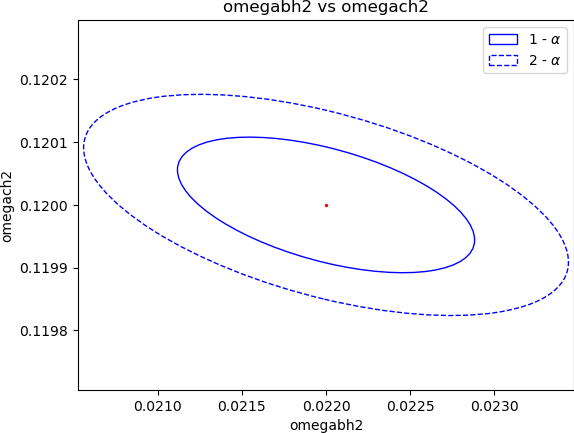
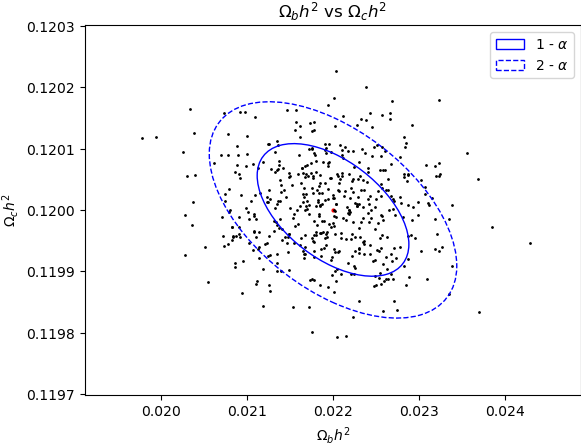
fixed the issue in both scaling and gaussian realization.

diff --git a/Fisher_Matrix.py b/Fisher_Matrix.py
@@ -37,6 +37,19 @@ def print_matrix(matrix):
     print("-" * 10)
 
 
+def science_convert(labels):
+    new_labels = []
+    for label in labels:
+        label = label.replace("omega", "\\Omega_")
+        label = label.replace("2", "^2")
+        label = label.replace("log", "log(")
+        label = label.replace("A", "A)")
+        label = label.replace("ns", "n_s")
+        label = label.replace("tau", "\\tau")
+        new_labels.append("$" + label + "$")
+    return new_labels
+
+
 def plot(params):
     center = params[0]
     w_1 = params[1] * 1.52
@@ -45,7 +58,8 @@ def plot(params):
     h_2 = params[2] * 2.48
 
     inclination = params[3]
-    labels = params[4]
+    original_labels = params[4]
+    labels = science_convert(params[4])
     fig, ax = plt.subplots()
     plt.xlabel(labels[0])
     plt.ylabel(labels[1])
@@ -55,24 +69,27 @@ def plot(params):
 
     ell_1 = Ellipse(xy=center, width=w_1, height=h_1, angle=inclination, edgecolor='b', ls='-', lw=1, facecolor='none')
     ell_2 = Ellipse(xy=center, width=w_2, height=h_2, angle=inclination, edgecolor='b', ls='--', lw=1, facecolor='none')
-    plt.scatter(center[0], center[1], 2, c='r')
+    plt.scatter(center[0], center[1], 4, c='r')
     ax.add_artist(ell_1)
     ax.add_artist(ell_2)
-    # plt.ylim(center[1] - w_2 / 2, center[1] + w_2 / 2)
-    # plt.xlim(center[0] - h_1 / 2, center[0] + h_2 / 2)
-    ax.margins(-0.03, -0.43)
 
-    ax.legend((ell_1, ell_2), (r'1 - $\alpha$', r'2 - $\alpha$'))
-    plt.savefig(labels[0] + " vs " + labels[1] + ".png", bbox_inches="tight", pad_inches=0)
+    y_lower = center[1] - h_2
+    y_upper = center[1] + h_2
+    x_lower = center[0] - w_2
+    x_upper = center[0] + w_2
+    plt.ylim(y_lower, y_upper)
+    plt.xlim(x_lower, x_upper)
 
-    random_points_w = rnd.normal(center[0], params[1], 500)
-    random_points_h = rnd.normal(center[1], params[2], 500)
+    ax.legend((ell_1, ell_2), (r'1 - $\alpha$', r'2 - $\alpha$'), loc='upper right')
+
+    random_points_w = rnd.normal(center[0], w_2 / 4, 500)
+    random_points_h = rnd.normal(center[1], h_2 / 4, 500)
     for i in range(500):
         p_w = random_points_w[i]
         p_h = random_points_h[i]
-        plt.scatter(p_w, p_h, 2, c='black')
+        plt.scatter(p_w, p_h, 1, c='black')
+    plt.savefig(original_labels[0] + " vs " + original_labels[1] + ".png", bbox_inches="tight", pad_inches=0)
     plt.show()
-
 
 
 matrix = get_covariance_matrix("base_w_plikHM_TTTEEE_lowl_lowE_BAO_Riess18_Pantheon.covmat")
@@ -91,5 +108,5 @@ logA_ns_obj.print_fisher_matrix()
 tau_w_obj.print_covariance_matrix()
 tau_w_obj.print_fisher_matrix()
 
-plot(bh2_ch2_obj.get_ellipse_params())
+plot(tau_w_obj.get_ellipse_params())
 print("done")
